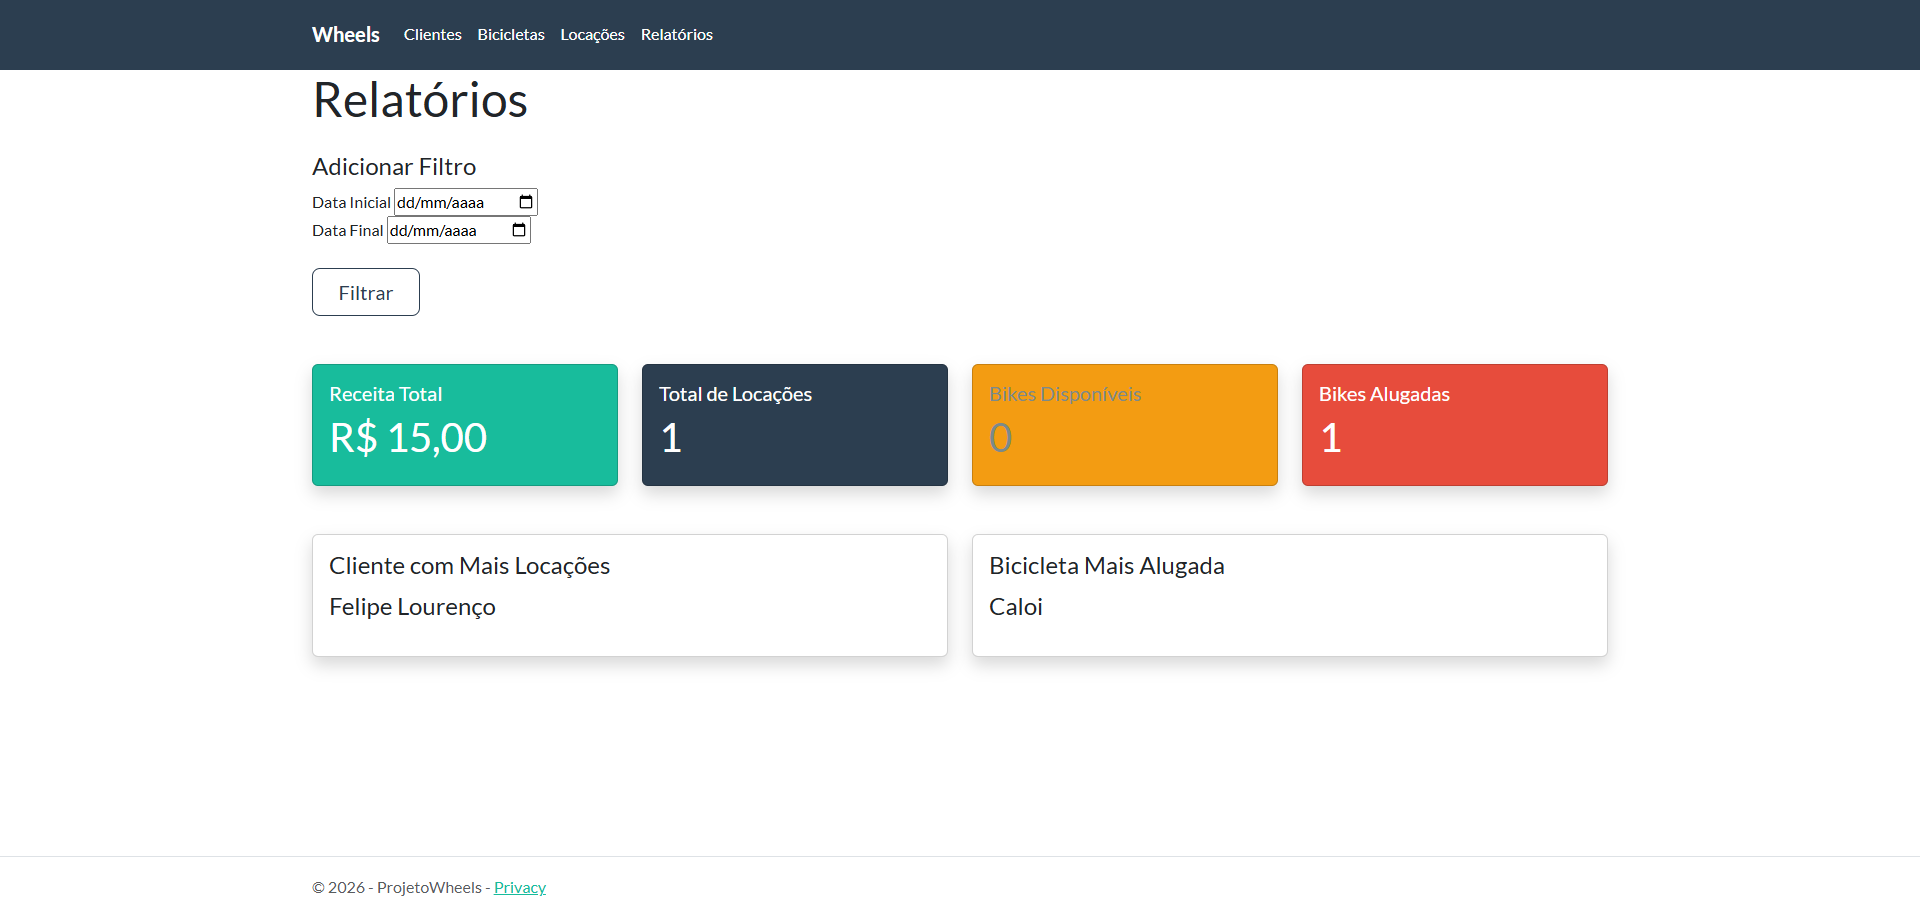
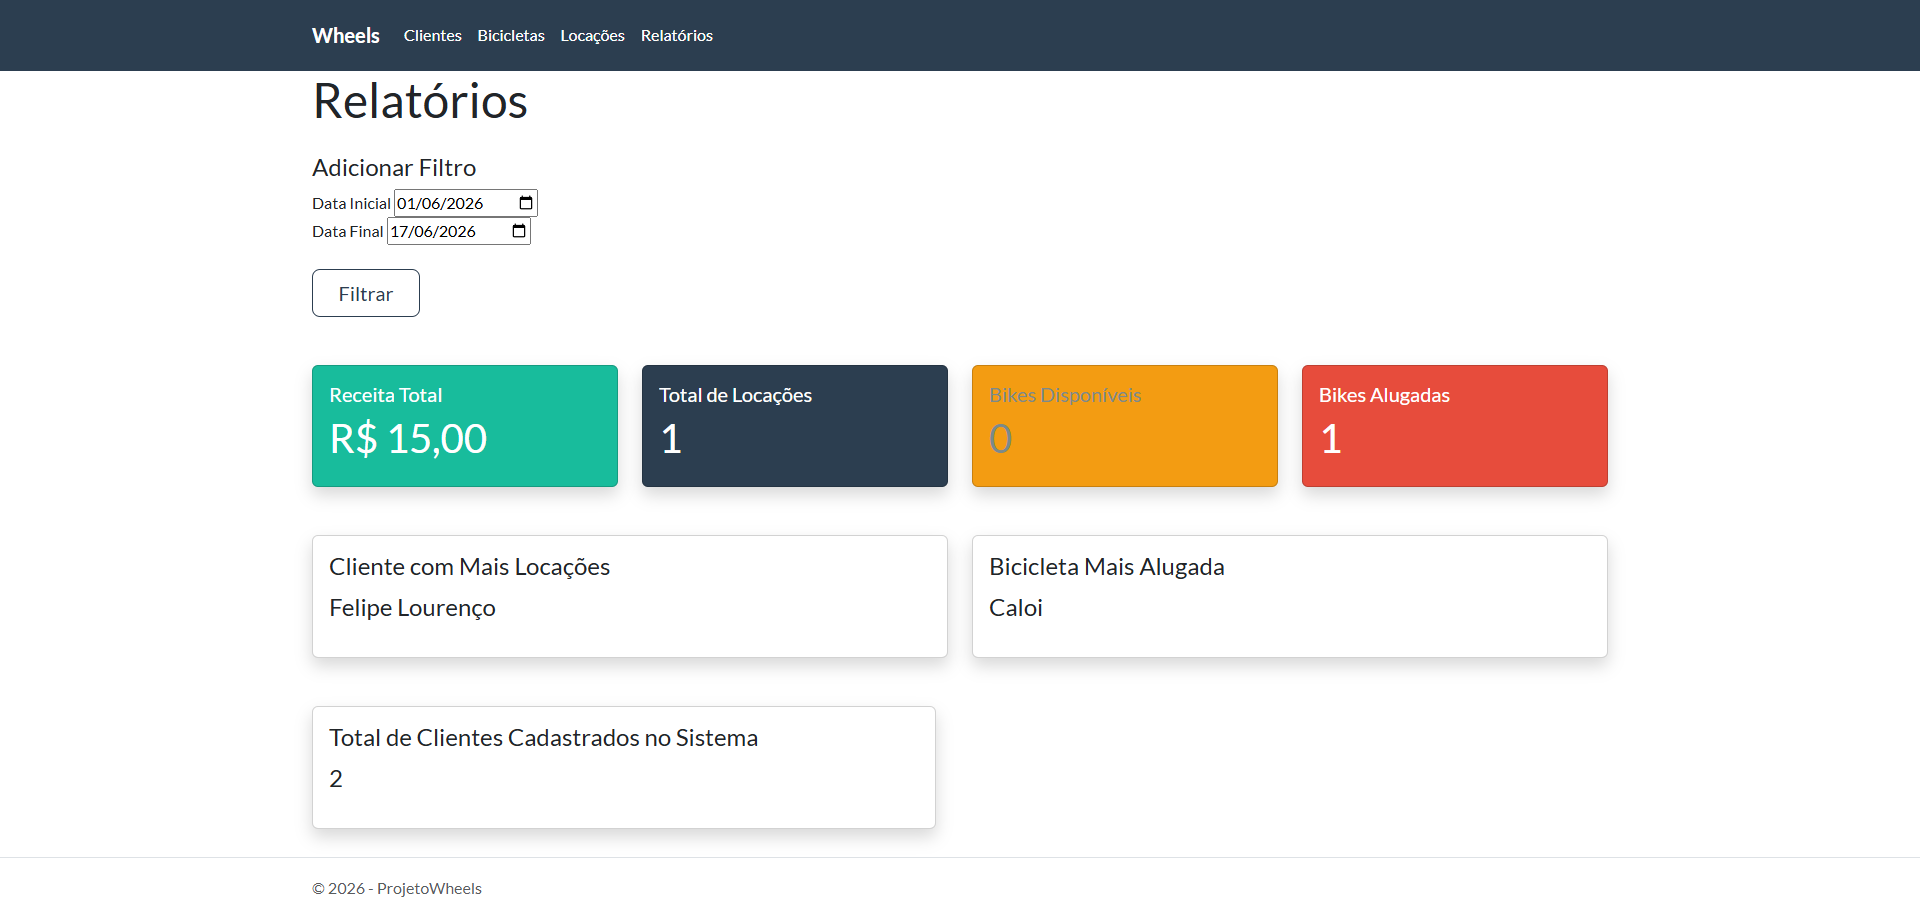
refactor: retirada dos services de DashBoard

diff --git a/ProjetoWheels/Pages/Index.cshtml.cs b/ProjetoWheels/Pages/Index.cshtml.cs
@@ -8,19 +8,6 @@ namespace ProjetoWheels.Pages
 {
     public class IndexModel : PageModel
     {
-        private readonly IDashBoardService _dashboardService;
-
-        public IndexModel(IDashBoardService dashboardService)
-        {
-            _dashboardService = dashboardService;
-        }
-
-        public int TotalClientes { get; set; }
-
-        public int BikesDisponiveis { get; set; }
-
-        public int LocacoesAtivas { get; set; }
-
 
         public void OnGet()
         {

diff --git a/ProjetoWheels/Program.cs b/ProjetoWheels/Program.cs
@@ -21,9 +21,6 @@ namespace ProjetoWheels
             builder.Services.AddScoped<
             IRelatorioService,
             RelatorioService>();
-            builder.Services.AddScoped<
-            IDashBoardService,
-            DashBoardService>();
 
             var app = builder.Build();
 

diff --git a/ProjetoWheels/Services/RelatorioService.cs b/ProjetoWheels/Services/RelatorioService.cs
@@ -86,6 +86,9 @@ namespace ProjetoWheels.Services
             relatorio.BicicletaMaisAlugada =
                 bicicletaMaisAlugada?.Marca;
 
+            relatorio.TotalClientes =
+                _context.Clientes.Count();
+
             return relatorio;
         }
     }

diff --git a/ProjetoWheels/Models/RelatorioViewModel.cs b/ProjetoWheels/Models/RelatorioViewModel.cs
@@ -17,4 +17,6 @@ public class RelatorioViewModel
     public string ClienteMaisLocacoes { get; set; } = "";
 
     public string BicicletaMaisAlugada { get; set; } = "";
+    public int TotalClientes { get; set; }
+
 }

diff --git a/README.md b/README.md
@@ -58,11 +58,15 @@ O principal objetivo é substituir processos manuais por uma solução centraliz
 
 ### Tela Inicial
 
-![Tela Inicial](images/TelaInicial.png)
+<p align="center">
+  <img src="ProjetoWheels/wwwroot/images/TelaInicial.png" width="900">
+</p>
 
 ### Relatório
 
-![Relatório](images/Relatorio.png)
+<p align="center">
+  <img src="ProjetoWheels/wwwroot/images/Relatorio.png" width="900">
+</p>
 
 ---
 
